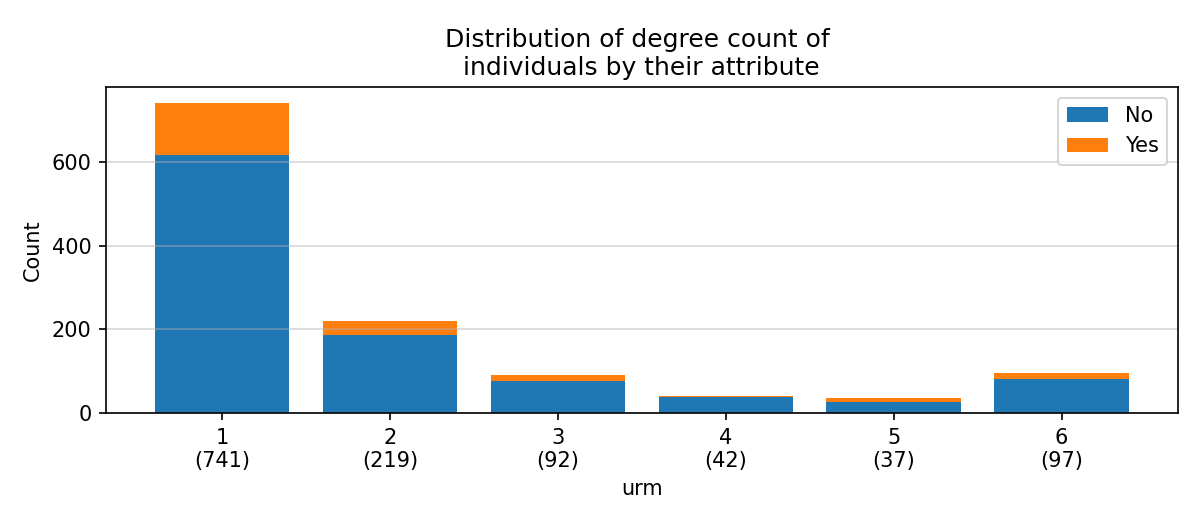
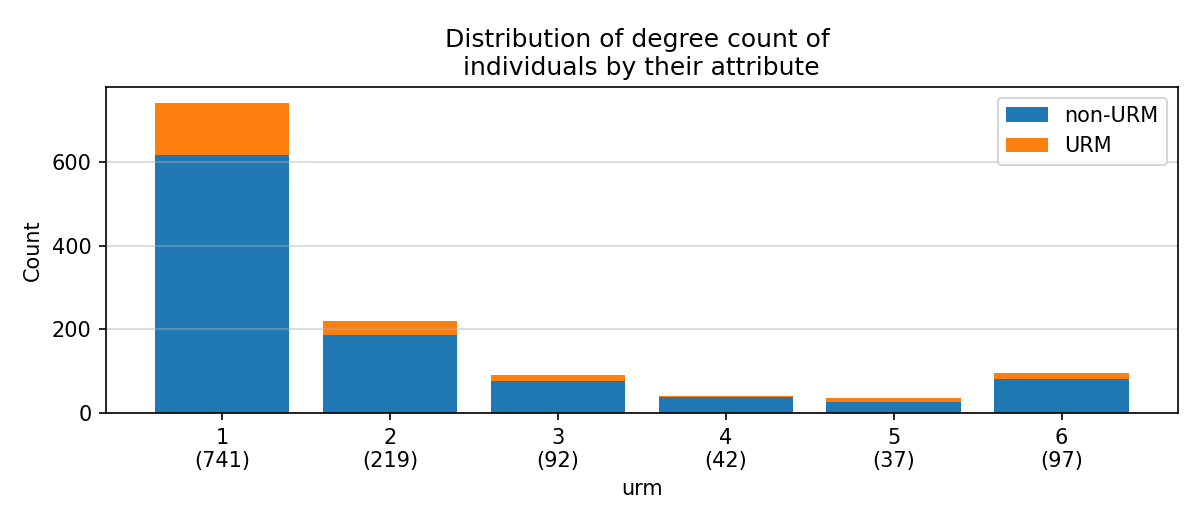
Update the label for degree dist and news mention dis

Changed region(s): [[0.8325, 0.1829, 0.9867, 0.3352]]

diff --git a/scripts/13_01_01_stacked_barplots_newscountdist_and_degree_dist.py b/scripts/13_01_01_stacked_barplots_newscountdist_and_degree_dist.py
@@ -83,6 +83,12 @@ for count_type in count_types:
         "merged_expertise":["researcher","practitioner","policymaker","other"]
     }
 
+    dict_attribute_levels_label = {
+        "urm":["non-URM","URM"],
+        "pronoun":["he","she","they"],
+        "merged_expertise":["researcher","practitioner","policymaker","other"]
+    }
+
     for attribute in attributes:
         dict_degree_to_attribute = {degree:[dicts_entity_id_to_metadata[attribute][entity_id] for entity_id in entity_ids] for degree,entity_ids in dict_value_count_to_entity_ids.items()}
         max_value_to_plot = 6
@@ -96,6 +102,7 @@ for count_type in count_types:
         show_count_in_tick = True
         logx= False
         logy= False
+        title = ""
         title = f"Distribution of {count_type} of \nindividuals by their attribute"
         savefig_dir = ""
 
@@ -145,7 +152,7 @@ for count_type in count_types:
             ax.set_yscale('log')
         if title:
             ax.set_title(title)
-        ax.legend(bars, dict_attribute_levels[current_attribute])
+        ax.legend(bars, dict_attribute_levels_label[current_attribute])
         plt.tight_layout()
         count_type_name_for_fname= "_".join(count_type.split())
         savefig_dir = f"../figures/{output_code}_{count_type_name_for_fname}_by_{current_attribute}.png"

diff --git a/scripts/09_01_01_network_analysis_of_comention_network.py b/scripts/09_01_01_network_analysis_of_comention_network.py
@@ -181,6 +181,7 @@ plot_histogram_of_values(values,value_label=value_label,savefig_dir=savefig_dir,
 
 ## Plotting the bi-populated degree distribution
 dict_attribute_to_levels = {"urm":["No","Yes"],"pronoun":["He","She"]}
+dict_attribute_to_levels_for_label = {"urm":["non-URM","URM"],"pronoun":["he","she"]}
 dict_attributes_to_color = {"urm":{"No":"seagreen","Yes":"royalblue"},"pronoun":{"He":"royalblue","She":"seagreen"}}
 for attribute in ["urm","pronoun"]:
 	width=0.25
